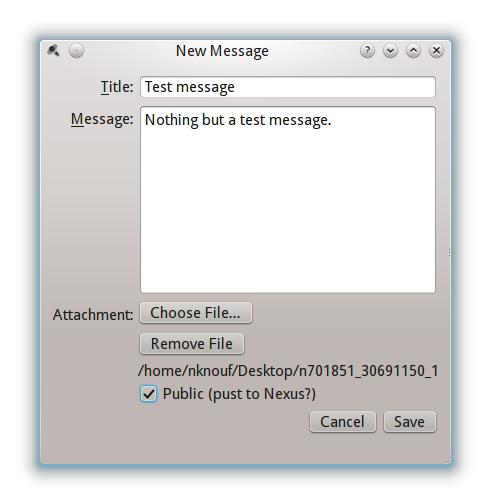
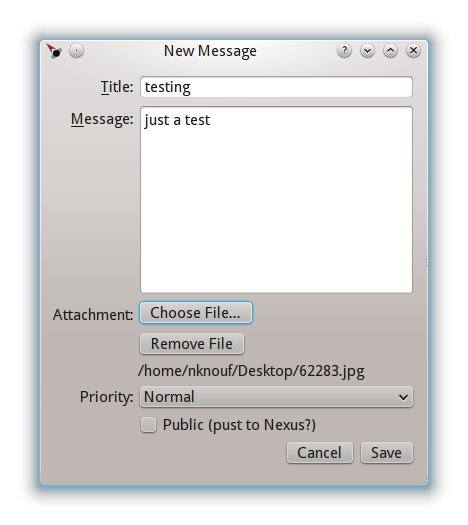
-- updating manual, removing advanced preferences (for rate limiting) for now

Changed region(s): [[0.0598, 0.0595, 0.9274, 0.9226]]

diff --git a/assets/index.html b/assets/index.html
@@ -140,16 +140,20 @@ a:hover {
 <p>In this manual <strong>Android</strong> refers to the Android application, while <strong>Desktop</strong> refers to the application for Windows and Linux PCs.</p>
 <p>The following icons are used throughout the manual and in the applications themselves:</p>
 <dl class="docutils">
+<dt><img alt="Outgoing messages" src="images/menu_outgoing.png" style="width: 48px;" /> Outgoing messages</dt>
+<dd>Messages that you've created and that will be passed to other devices running Fluid Nexus</dd>
+</dl>
+<dl class="docutils">
+<dt><img alt="High priority messages" src="images/menu_high_priority.png" style="width: 48px;" /> High priority messages</dt>
+<dd>Messages that have been marked as high priority; these can be considered <em>life or death</em> messages.</dd>
+</dl>
+<dl class="docutils">
 <dt><img alt="Public messages created by you" src="images/menu_public.png" style="width: 48px;" /> Public messages created by you</dt>
 <dd>Messages that you have marked as public and will be pushed by yourself or someone else to the Nexus</dd>
 </dl>
 <dl class="docutils">
 <dt><img alt="Public messages created by someone else" src="images/menu_public_other.png" style="width: 48px;" /> Public messages created by someone else</dt>
 <dd>Messages that someone else has marked as public and will be pushed by yourself or someone else to the Nexus</dd>
-</dl>
-<dl class="docutils">
-<dt><img alt="Outgoing messages" src="images/menu_outgoing.png" style="width: 48px;" /> Outgoing messages</dt>
-<dd>Messages that you've created and that will be passed to other devices running Fluid Nexus</dd>
 </dl>
 <dl class="docutils">
 <dt><img alt="Other messages" src="images/menu_all.png" style="width: 48px;" /> Other messages</dt>
@@ -233,6 +237,7 @@ a:hover {
 <p class="caption">Desktop new message window</p>
 </div>
 <p>Fill out the desired title and message.  Messages can be marked as potentially being sent to the Nexus by checking &quot;Public (push to Nexus?)&quot;.  Attachments can be added as well.  In the Desktop application simply press &quot;Choose File...&quot; to open up a file dialog and select the desired attachment.  On Android, select the type of attachment (audio, image, video) and then tap &quot;Add Attachment...&quot; to open up the native file choosing application.</p>
+<p>You can also set the &quot;priority&quot; of the message.  Currently there are two options: &quot;Normal&quot; and &quot;Life or Death&quot;.  <em>Only use the &quot;Life or Death&quot; option if someone's life depends on receiving the message</em>.</p>
 <div class="figure">
 <img alt="android new message attachment type" src="images/android_new_message_attachment_type.png" style="width: 400px;" />
 <p class="caption">Selecting an attachment type on Android</p>
@@ -395,7 +400,7 @@ message FluidNexusMessages {
 <div class="footer">
 <hr class="footer" />
 Document generated from <a class="reference external" href="http://docutils.sourceforge.net/rst.html">reStructuredText</a> plaintext markup source
-on 2011-08-10 at 20:58:10.
+on 2011-08-14 at 00:08:19.
 </div>
 </body>
 </html>
